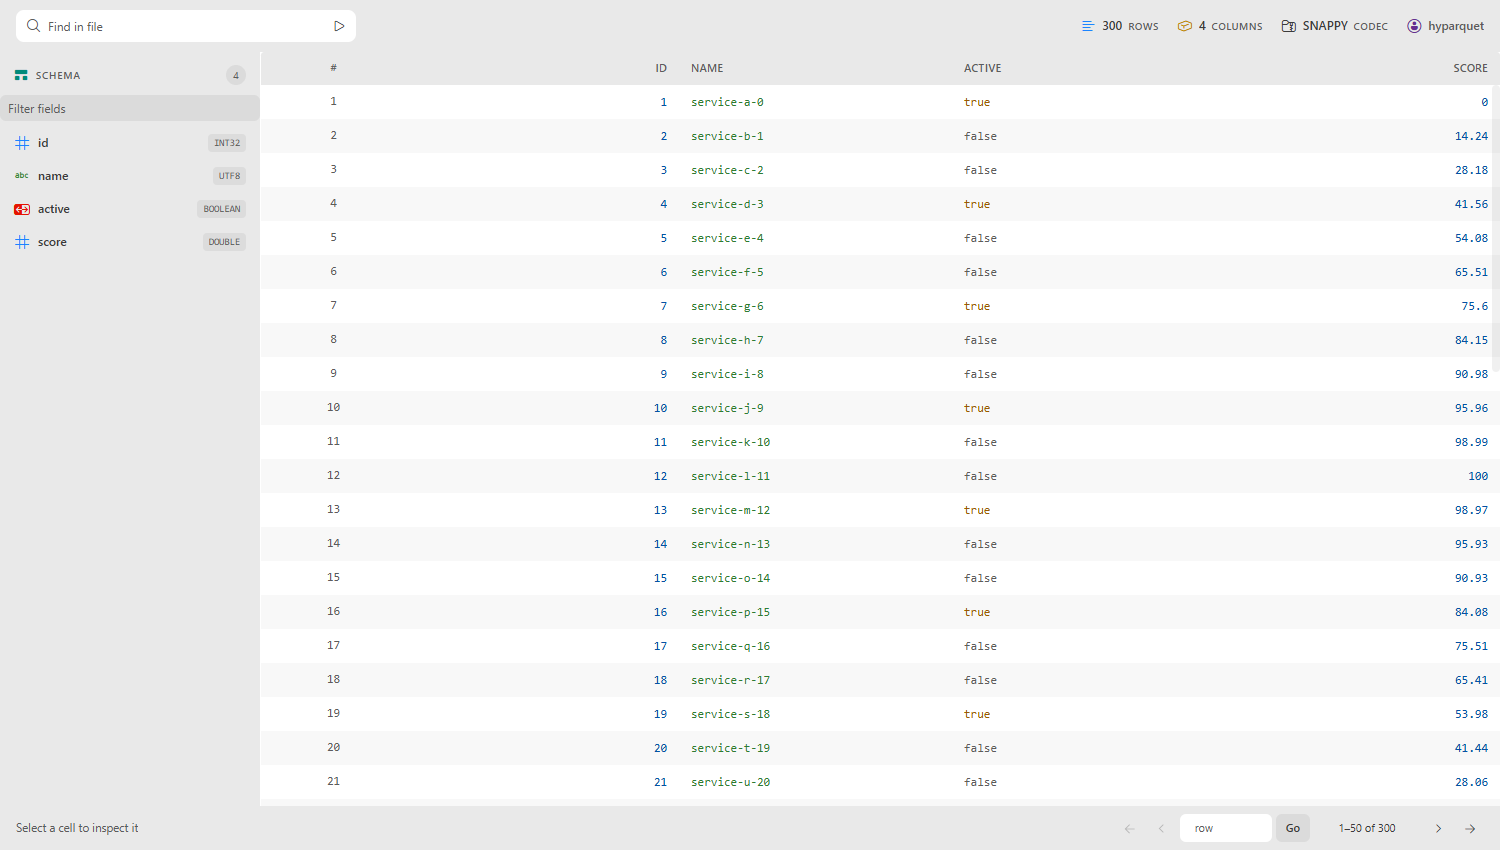
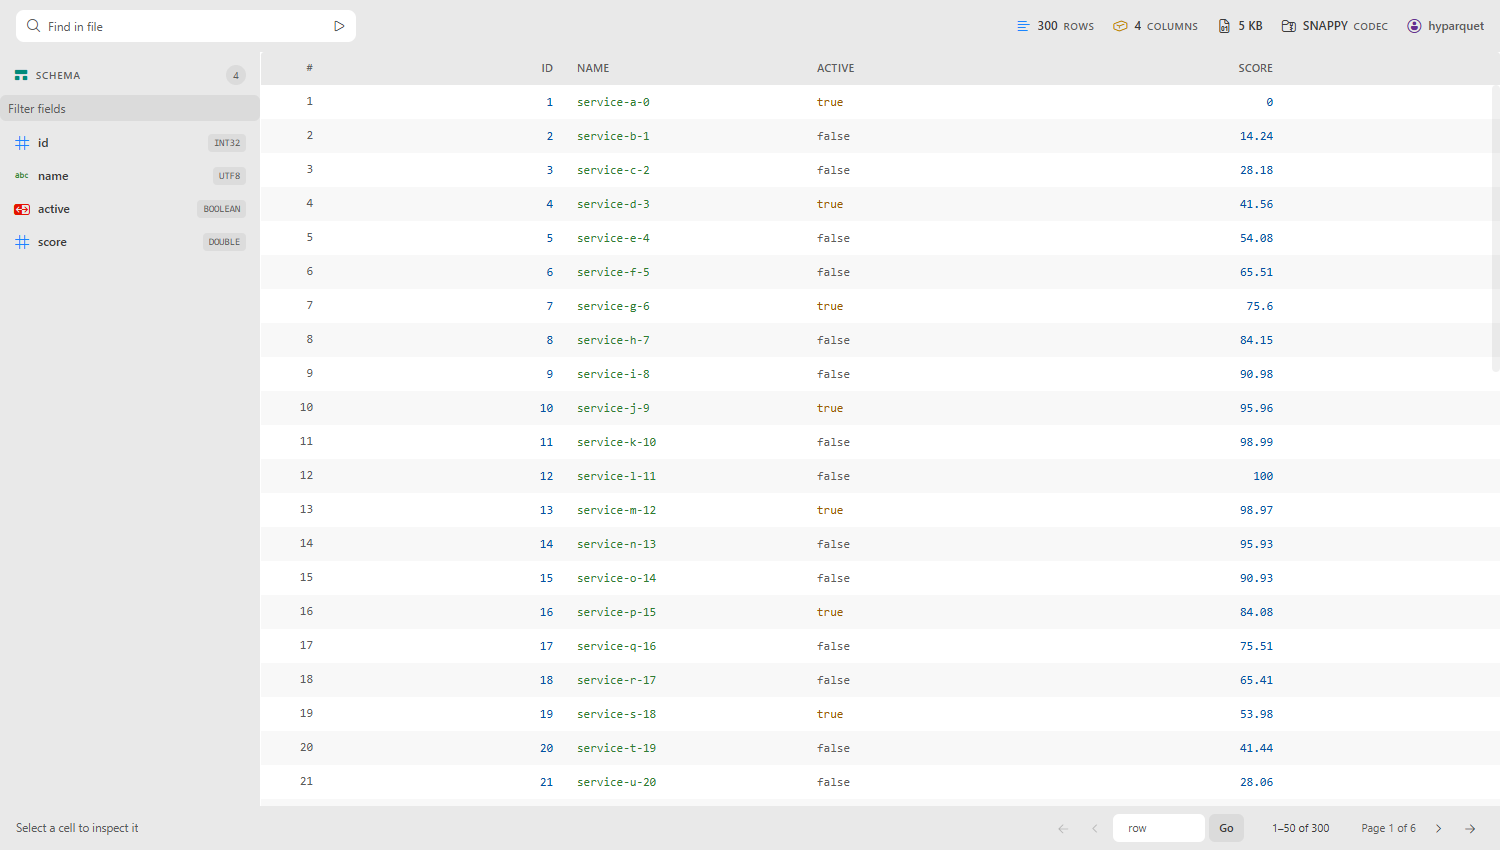
fix(parquet): 列宽拉伸设上限，剩余宽度交给填充列
critique 第三/四轮反复点名的「420px 上限在宽表上从未生效，4 列文件变成五块 200–550px 面板」。根因不是我们算错，是 rc-table 给内层 <table> 加了 min-width:100%：scroll.x 再小，列也会被按比例摊到填满视口 —— 这也是列宽拖动「拖 80 落到别处」的原因。CSS 覆盖 min-width 试过，无效（虚拟体自己排版）。最终方案：宽度在 JS 里算（每列最多长到 240px，均匀增长），剩余宽度交给一个 aria-hidden 的填充列，这样 scroll.x 恰好等于视口，不再有可分配的空间。4 列文件从「五块 286px」变成「列按上限、右侧留白」，拖动也精确了。断言：每列 ≤240 且 >120（证明用了剩余空间却没越界）、body 与 header 逐列等宽、填充列不带 aria-colindex 且 role=presentation，grid 语义断言按「有 aria-colindex 的表头」过滤。全套 36/36 连跑两次。

diff --git a/src/react/view/parquet/Parquet.tsx b/src/react/view/parquet/Parquet.tsx
@@ -54,6 +54,15 @@ const DATA_COLUMN_WIDTH = 120;
 const COLUMN_MIN_WIDTH = 64;
 const COLUMN_MAX_WIDTH = 480;
 const COLUMN_WIDTH_STORAGE_KEY = "parquet-column-widths";
+/**
+ * How wide a column may grow to help fill the viewport before the grid simply stops short.
+ *
+ * Without a cap antd stretches the columns proportionally, which turned a four-column file into
+ * four 273px panels and made a dragged width land somewhere other than where it was dropped.
+ * "Density is efficiency" (DESIGN.md) is the reason to stop: a 550px-wide `id` column is not
+ * more readable, it is just wider.
+ */
+const COLUMN_STRETCH_MAX = 240;
 /** How long a selection must hold still before it is announced to assistive tech. */
 const ANNOUNCE_DELAY_MS = 600;
 /** Must agree with `.parquet-viewer__cell` in the stylesheet: 6px padding ×2 + 22px line-height. */
@@ -439,7 +448,41 @@ function ParquetViewer({ dark }: { dark: boolean }) {
     (name: string) => columnWidths[name] ?? DATA_COLUMN_WIDTH,
     [columnWidths],
   );
+
   const [tableBodyWidth, setTableBodyWidth] = useState(0);
+
+  /**
+   * The widths that actually render, and the resulting table extent.
+   *
+   * Columns grow to use spare room — a two-column file should not be 200px of table in a
+   * 1200px surface — but never past `COLUMN_STRETCH_MAX`, and the growth is uniform. When the
+   * cap is reached the table stops short and the surface's own background shows through, which
+   * is honest: there is no more data.
+   */
+  const columnLayout = useMemo(() => {
+    const base = (fileInfo?.columns ?? []).map((column) => columnWidthOf(column.name));
+    const baseSum = base.reduce((sum, width) => sum + width, 0);
+    const available = Math.max(0, tableBodyWidth - INDEX_COLUMN_WIDTH);
+    if (base.length === 0 || available <= baseSum) {
+      return { widths: base, filler: 0, extent: INDEX_COLUMN_WIDTH + baseSum };
+    }
+    const growth = base.map((width) => Math.max(0, COLUMN_STRETCH_MAX - width));
+    const capacity = growth.reduce((sum, room) => sum + room, 0);
+    if (capacity === 0) return { widths: base, filler: 0, extent: INDEX_COLUMN_WIDTH + baseSum };
+    const share = Math.min(1, (available - baseSum) / capacity);
+    const widths = base.map((width, index) => Math.round(width + growth[index] * share));
+    return {
+      widths,
+      // Whatever the cap refuses to absorb is handed to a filler column: rc-table forces the
+      // table to 100% of its container, so leaving the space unassigned is not an option —
+      // without the filler the leftover is redistributed onto the real columns.
+      filler: Math.max(
+        0,
+        tableBodyWidth - (INDEX_COLUMN_WIDTH + widths.reduce((sum, w) => sum + w, 0)),
+      ),
+      extent: INDEX_COLUMN_WIDTH + widths.reduce((sum, width) => sum + width, 0),
+    };
+  }, [fileInfo, columnWidthOf, tableBodyWidth]);
   /** The virtual table owns scrolling; cursor moves and row jumps go through its ref. */
   const tableRef = useRef<TableRef>(null);
   /** Pending focus retry while the virtual list renders the cursor's row. */
@@ -1224,7 +1267,7 @@ function ParquetViewer({ dark }: { dark: boolean }) {
         dataIndex: column.name,
         key: column.name,
         ellipsis: true,
-        width: columnWidthOf(column.name),
+        width: columnLayout.widths[position] ?? DATA_COLUMN_WIDTH,
         align: kind === "numeric" ? "right" : "left",
         className: active ? "parquet-viewer__column--active" : undefined,
         // A grid whose header and body are separate scroll surfaces has to state the column
@@ -1264,8 +1307,22 @@ function ParquetViewer({ dark }: { dark: boolean }) {
         },
       });
     });
+    // A column with no data: it exists so the capped layout can own the leftover width instead
+    // of having rc-table spread it over the real columns. Hidden from assistive tech, since it
+    // is not a column of the file.
+    if (columnLayout.filler > 0) {
+      cols.push({
+        title: "",
+        key: "__filler",
+        width: columnLayout.filler,
+        className: "parquet-viewer__filler-cell",
+        onHeaderCell: () => ({ "aria-hidden": true, role: "presentation" }),
+        onCell: () => ({ "aria-hidden": true, role: "presentation" }),
+        render: () => null,
+      });
+    }
     return cols;
-  }, [fileInfo, loadedPage, query, selectCell, activeColumn, columnWidthOf]);
+  }, [fileInfo, loadedPage, query, selectCell, activeColumn, columnLayout]);
 
   useEffect(() => {
     handler
@@ -1768,14 +1825,9 @@ function ParquetViewer({ dark }: { dark: boolean }) {
                       scroll={{
                         // Virtual scrolling needs numbers: x is the full column extent (or the
                         // viewport when it is wider), y is the body height measured above.
-                        x: Math.max(
-                          tableBodyWidth,
-                          INDEX_COLUMN_WIDTH +
-                            fileInfo.columns.reduce(
-                              (sum, column) => sum + columnWidthOf(column.name),
-                              0,
-                            ),
-                        ),
+                        // The layout already accounts for the viewport; stretching past it is
+                        // what blew narrow files up.
+                        x: columnLayout.extent + columnLayout.filler,
                         y: tableBodyHeight,
                       }}
                       rowClassName={(_row, index) => {
